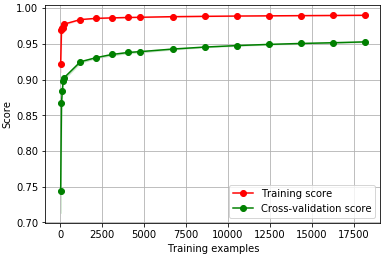
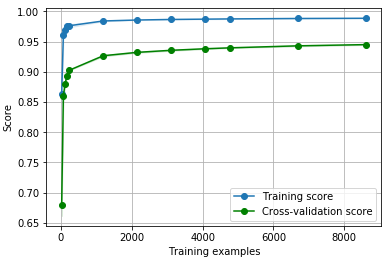
Added saturation feature, removed incorrect predictors, added divergence support

Changed region(s): [[0.0, 0.0, 0.9922, 1.0]]

diff --git a/learning_curves.py b/learning_curves.py
@@ -15,59 +15,56 @@ import matplotlib.pyplot as plt
 
 class Predictor():
 
-    def __init__(self, name, func, guess):
+    def __init__(self, name, func, guess, diverging = False):
         """ Create a Predictor with a given {name}, {function} and initial parameters: {guess}."""
-        self.name = name        
+        self.name = name
         self.func = func
         self.guess = guess
         self.params = self.guess
         self.score = None
-        self.cov = {}        
+        self.cov = {}
+        self.diverging = diverging
 
     def __call__(self, x, *args):
-        return self.func(x,*args) if len(args) > 1 else self.func(x, *self.params)
+        return self.func(x, *args) if len(args) > 1 else self.func(x, *self.params)
 
     def __repr__(self):
-        return f"{self.name} - params:{self.params} - score:{self.score}"
+        return f"{self.name} (params:{self.params},score:{self.score})"
 
 
 class LearningCurve():
 
     def __init__(self, predictors=[], scoring=r2_score):
-        
+
         self.predictors = [
-            Predictor("pow",        lambda x,a,b,c    : a - b*x**c,                  [1, 1.7,-.5]),
-            Predictor("pow_2",      lambda x,a,b,c,d  : a - (b*x+d)**c,              [1, 1.7,-.5, 1e-3]),
-            Predictor("pow_log",    lambda x,a,b,c,m,n: a - b*x**c + m*np.log(x**n), [1.3, 1.7,-.5,1e-3,2]),
-            Predictor("pow_log_2",  lambda x,a,b,c    : a / (1 + (x/np.exp(b))**c),  [1, 1.7,-.5]),
-            Predictor("log_lin",    lambda x,a,b      : np.log(a*np.log(x)+b),       [1, 1.7]),
-            Predictor("log",        lambda x,a,b      : a - b/np.log(x),             [1.6, 1.1])
+            Predictor("pow",        lambda x, a, b, c, d    : a - (b*x+d)**c,                [1, 1.7, -.5, 1e-3]),
+            Predictor("pow_log",    lambda x, a, b, c, m, n : a - b*x**c + m*np.log(x**n),   [1, 1.7, -.5, 1e-3, 1e-3], True),
+            Predictor("pow_log_2",  lambda x, a, b, c       : a / (1 + (x/np.exp(b))**c),    [1, 1.7, -.5]),
+            Predictor("inv_log",    lambda x, a, b          : a - b/np.log(x),               [1, 1.6])
         ]
-        
+
         if len(predictors) > 0:
             self.predictors.append(predictors)
 
         self.recorder = {}
         self.scoring = scoring
 
-
     def save(self, path="./lc_data.pkl"):
         """ Save the LearningCurve object as a pickle object in disk. Use dill to save because the object contains lambda functions. """
-        with open(path, 'wb') as f: dill.dump(self, f)
-
+        with open(path, 'wb') as f:
+            dill.dump(self, f)
 
     @staticmethod
     def load(path="./lc_data.pkl"):
         """ Load a LearningCurve object from disk. """
-        with open(path, 'rb') as f: return dill.load(f)
-
+        with open(path, 'rb') as f:
+            return dill.load(f)
 
     def get_lc(self, estimator, X, Y, train_sizes=None, test_size=0.2, n_splits=3, verbose=1, n_jobs=-1, **kwargs):
         """ Compute and plot the learning curve."""
 
         self.train(estimator, X, Y, train_sizes=train_sizes, test_size=test_size, n_splits=n_splits, verbose=verbose, n_jobs=n_jobs, **kwargs)
         return self.plot(predictor="best")
-
 
     def train(self, estimator, X, Y, train_sizes=None, test_size=0.2, n_splits=3, verbose=1, n_jobs=-1):
         """ Compute the learning curve of an estimator over a dataset. Returns an object that can then be passed to plot_lc function.
@@ -77,96 +74,157 @@ class LearningCurve():
                 - n_splits: int. Number of random cross validation calculated for each train size
                 - verbose: int. The higher, the more verbose.
                 - n_jobs: See sklearn learning_curve function documentation.
-        """         
+        """
 
         if train_sizes is None:
-            # [0.001, 0.003, 0.005, 0.007, 0.01, 0.05, 0.09, 0.13, 0.17, 0.2, 0.28, 0.36, 0.44, 0.52, 0.6, 0.68, 0.76]
-            train_sizes = [i/1000 for i in range(1,9,2)] + [i/100 for i in range(1,20,4)] + [i/50 for i in range(10,40,4)]
+            # [0.001, 0.003, 0.005, 0.007, 0.01, 0.05, 0.09, 0.13, 0.17, 0.2, 0.28, 0.36, 0.44, 0.52, 0.6, 0.68, 0.76, 0.84, 0.92]
+            train_sizes = [i/1000 for i in range(1, 9, 2)] + [i/100 for i in range(1, 20, 4)] + [i/50 for i in range(10, 47, 4)]
 
         cv = ShuffleSplit(n_splits=n_splits, test_size=test_size)
-        t_start = time.perf_counter()        
-        train_sizes, train_scores, test_scores = learning_curve(estimator, X, Y, 
-                                                                cv=cv, n_jobs=n_jobs, train_sizes=train_sizes, verbose=verbose)  
+        t_start = time.perf_counter()
+        train_sizes, train_scores, test_scores = learning_curve(estimator, X, Y,
+                                                                cv=cv, n_jobs=n_jobs, train_sizes=train_sizes, verbose=verbose)
         self.recorder["data"] = {
-            "total_size"          : len(X),
-            "train_sizes"         : train_sizes,
-            "train_scores_mean"   : np.mean(train_scores, axis=1),
-            "train_scores_std"    : np.std(train_scores, axis=1),
-            "test_scores_mean"    : np.mean(test_scores, axis=1),
-            "test_scores_std"     : np.std(test_scores, axis=1),
-            "time"                : time.perf_counter() - t_start
-        }  
+            "total_size": len(X),
+            "train_sizes": train_sizes,
+            "train_scores_mean": np.mean(train_scores, axis=1),
+            "train_scores_std": np.std(train_scores, axis=1),
+            "test_scores_mean": np.mean(test_scores, axis=1),
+            "test_scores_std": np.std(test_scores, axis=1),
+            "time": time.perf_counter() - t_start
+        }
 
-        gc.collect()         
+        gc.collect()
 
         return self.recorder["data"]
 
+    def get_predictor(self, pred):
+        """ Get the first predictor with matching {pred}. Returns None if no predictor matches. 
+            pred can be: a string (Predictor name, "best" or "all"), a Predictor, a list of string (Predictor names), a list of Predictors"""
 
-    def get_predictor(self, name):
-        """ Get the first predictor with matching {name}. Returns None if no predictor matches. """        
-        return next((P for P in self.predictors if P.name == name), None)
+        if isinstance(pred, str):
+            if pred == "best":
+                return self.best_predictor()
+            elif pred == "all":
+                return self.predictors 
+            else:
+                matches = [P for P in self.predictors if P.name == pred]
+                if len(matches) > 0: return matches[0]
 
+        elif isinstance(pred, Predictor): return pred
+
+        elif isinstance(pred, list):
+            if "best" in pred or "all" in pred: raise ValueError("A list of predictors can not contain 'best' or 'all'.")
+            return [self.get_predictor(P) for P in pred]
+            
+        raise ValueError(f"Predictor {pred} could not be found.")
 
     def fit_all(self, x, y):
-        """ Fit a curve with all the functions and retrieve r2 score if y_pred is finite.
+        """ Fit a curve with all the predictors and retrieve r2 score if y_pred is finite.
+            Returns an array of predictors with the updated params and score."""
+        return self.fit_all_cust(x, y, self.predictors)
+
+    def fit_all_cust(self, x, y, predictors):
+        """ Fit a curve with all the predictors and retrieve r2 score if y_pred is finite.
             Returns an array of predictors with the updated params and score."""
 
-        predictors = []
-        for p in self.predictors:
+        results = []
+        for p in predictors:
             try:
-                predictors.append(self.fit(p,x,y))
+                results.append(self.fit(p, x, y))
             except RuntimeError:
                 warnings.warn(f"{p.name}: Impossible to fit the learning curve (change initial gess).")
-        return predictors # [self.fit(p,x,y) for p in self.predictors] # No error handling
-
+        return results  # [self.fit(p,x,y) for p in self.predictors] # No error handling
 
     def fit(self, predictor, x, y):
         """ Fit a curve with a predictor and retrieve score (default:R2) if y_pred is finite.
             Returns the predictor with the updated params and score."""
 
-        assert isinstance(predictor, Predictor), "The given Predictor is not a Predictor object (or could not be found)."
+        assert isinstance(predictor, Predictor), "The given Predictor is not a Predictor object."
 
         predictor.params, predictor.cov = optimize.curve_fit(predictor, x, y, predictor.params)
-        #try:
+        # try:
         y_pred = predictor(x)
-        predictor.score = self.scoring(y,y_pred) if np.isfinite(y_pred).all() else np.nan    
-        #except ValueError:
+        predictor.score = self.scoring(y, y_pred) if np.isfinite(y_pred).all() else np.nan
+        # except ValueError:
         #    print(x, P(x))
         return predictor
 
+    def threshold(self, P="best", **kwargs):
+        """ See threshold_cust documentation. This function calls threshold_cust with the LearningCurve data points."""
+        if not 'data' in self.recorder: raise RuntimeError("recorder is empty. You must first compute learning curve data points using the train method.")
+        if isinstance(P, str) : P = self.get_predictor(P)
+        return self.threshold_cust(P, self.recorder["data"]["train_sizes"], **kwargs)
 
-    def best_predictor(self):
+    def threshold_cust(self, P, x, threshold=0.99, max_scaling=3, force=False, **kwargs):
+        """ Find the training set size providing the highest accuracy up to a predefined threshold.
+            P(x) = y and for x -> inf, y -> saturation value.
+            This method approximates x_thresh such as P(x_thresh) = threshold * saturation value
+            Returns (saturation value, x_thresh, y_thresh)
+            max_scaling is use if the Predictor is diverging. It defines the order of magnitude for determining the saturation value.
+            max_scaling is added to the order of magnitude of the maximum value of x.
+        """               
+        if max_scaling > 5 and not force:
+            raise ValueError("max_scaling > 5: this will consume a lot of memory. Use Force=True to continue.")
+
+        x_max_scale = LearningCurve.get_scale(x[-1])
+        max_val = 10 ** (x_max_scale + max_scaling)
+        step = 5 * (max_scaling - 2)
+        # using result results in bad approximation of opt_trn_size because the step if proportional to max_scaling
+        # np.linspace(x[0], max_val, 1e3, dtype=np.uintc) 
+        # using np.arange we can specify a step and be more precise, but we need to adjust the step with max_scaling
+        # otherwise we run out of memory
+        x = np.arange(x[0], max_val, step, dtype=np.uintc) 
+        y = P(x)
+
+        if P.diverging:
+            warnings.warn("""Using a diverging Predictor. Because no saturation value exists for such Predictor, max_scaling will be use to determine the saturation value. You should adapt max_scaling to fit the maximum number of data you can fit.""")
+            sat_val = y[-1]
+        else:
+            sat_val = P.params[0]
+
+        desired_acc = sat_val * threshold
+        i = np.argmax(y >= desired_acc)
+        opt_trn_size, opt_acc = x[i], y[i]
+
+        return sat_val, int(opt_trn_size), opt_acc
+
+    @staticmethod
+    def get_scale(val):
+        """ Returns the scale of a value. Eg: get_scale(1e-15) = -15 """
+        return np.floor(np.log10(np.abs(val)))
+
+    def best_predictor(self, predictors=None, fit=True):
         """ Find the best predictor of the LearningCurve data for the test score learning curve."""
 
         if not 'data' in self.recorder:
             raise RuntimeError("recorder is empty. You must first compute learning curve data points using the train method.")
-        return self.best_predictor_cust(self.recorder["data"]["train_sizes"], self.recorder["data"]["test_scores_mean"])
+        predictors = predictors if predictors is not None else self.predictors
+        return self.best_predictor_cust(predictors, self.recorder["data"]["train_sizes"], self.recorder["data"]["test_scores_mean"], fit=fit)
 
-
-    def best_predictor_cust(self, x, y):
+    def best_predictor_cust(self, predictors, x, y, fit=True):
         """ Find the best predictor for the test score learning curve."""
 
-        best_p = self.predictors[0]
-        for P in self.fit_all(x,y):
-            if P.score is not None and P.score > best_p.score: 
+        best_p = predictors[0]
+        if fit is True : predictors = self.fit_all_cust(x, y, predictors)
+        for P in predictors:
+            if P.score is not None and P.score > best_p.score:
                 best_p = P
         return best_p
 
-
     def plot(self, predictor=None, **kwargs):
         """ Plot the training and test learning curve of the LearningCurve data, and optionally a fitted function. 
-            - predictor: The name of the predictor to use for fitting the learning curve. Can also be "all" or "best".
+            - predictor: The name of the predictor or predictor to use for fitting the learning curve. Can also be "all" or "best".
         """
         if not 'data' in self.recorder:
             raise RuntimeError("recorder is empty. You must first compute learning curve data points using the train method.")
         return self.plot_cust(predictor=predictor, **self.recorder["data"], **kwargs)
 
-
-    def plot_cust(self, train_sizes, train_scores_mean, train_scores_std, test_scores_mean, test_scores_std, 
-                        predictor=None, ylim=None, figsize=None, title=None, scores=True, **kwargs):
+    def plot_cust(self, train_sizes, train_scores_mean, train_scores_std, test_scores_mean, test_scores_std,
+                  predictor=None, ylim=None, figsize=None, title=None, scores=True, saturation=None, **kwargs):
         """ Plot any training and test learning curve, and optionally a fitted function. """
-    
-        fig, ax = plt.subplots(1,1,figsize=figsize)
+
+        fig, ax = plt.subplots(1, 1, figsize=figsize)
         if 'title' is not None:
             ax.set_title(title)
         if ylim is not None:
@@ -174,34 +232,39 @@ class LearningCurve():
         ax.set_xlabel("Training examples")
         ax.set_ylabel("Score")
         ax.grid()
-        ax.fill_between(train_sizes, train_scores_mean - train_scores_std,
-                        train_scores_mean + train_scores_std, alpha=0.1,
-                        color="r")
-        ax.fill_between(train_sizes, test_scores_mean - test_scores_std,
-                        test_scores_mean + test_scores_std, alpha=0.15, color="g")
-        ax.plot(train_sizes, train_scores_mean, 'o-', color="r", label="Training score")
+        ax.fill_between(train_sizes, train_scores_mean - train_scores_std, train_scores_mean + train_scores_std, alpha=0.1, color='#1f77b4')
+        ax.fill_between(train_sizes, test_scores_mean - test_scores_std, test_scores_mean + test_scores_std, alpha=0.15, color="g")
+        ax.plot(train_sizes, train_scores_mean, 'o-', color='#1f77b4', label="Training score")
         ax.plot(train_sizes, test_scores_mean, 'o-', color="g", label="Cross-validation score")
 
-        predictors_to_print = []
+        x_values = train_sizes
 
-        if predictor == "all":            
-            predictors_to_print = self.fit_all(train_sizes, test_scores_mean)
-        elif predictor == "best":    
-            self.fit_all(train_sizes, test_scores_mean)
-            predictors_to_print.append(self.best_predictor_cust(train_sizes, test_scores_mean))  
-        elif predictor is not None:
-            P = self.get_predictor(predictor)
-            if P is not None:
-                self.fit(P, train_sizes, test_scores_mean)
-                predictors_to_print.append(P) 
+        predictors = []
+        if predictor is not None: 
+            to_add = self.get_predictor(predictor)
+            predictors += to_add if isinstance(to_add, list) else [to_add]
 
-        for predictor in predictors_to_print:
-            ax = self.plot_fitted_curve(ax, predictor, train_sizes, scores)          
-                
+        if saturation is not None:
+            saturation = self.get_predictor(saturation)
+            predictors += saturation if isinstance(saturation, list) else [saturation]
+
+        predictors = self.get_unique_list(predictors) # Remove duplicates
+        self.fit_all_cust(train_sizes, test_scores_mean, predictors)
+
+        # Plot saturation
+        if isinstance(saturation, Predictor):
+            ax, optx = self.plot_saturation(ax, saturation, **kwargs)
+            if(train_sizes[-1] < optx):
+                x_scale = LearningCurve.get_scale(train_sizes[-1])
+                extra_vals = np.linspace(x_scale+1, optx+100, 10)
+                x_values = np.concatenate((x_values, extra_vals), axis=None)
+
+        for P in predictors:
+            if P is not None: ax = self.plot_fitted_curve(ax, P, x_values, scores)
+
         ax.legend(loc="best")
         plt.close(fig)
         return fig
-
 
     def plot_fitted_curve(self, ax, P, x, score=True):
         """ Add to figure ax a fitted curve. """
@@ -209,3 +272,19 @@ class LearningCurve():
         label = P.name + f" ({round(P.score,4)})" if score is True and P.score is not None else ""
         ax.plot(trialX, P(trialX), ls='--', label=label)
         return ax
+
+    def plot_saturation(self, ax, P, alpha=1, lw=1.3, **kwargs):
+        """ Add saturation lines to a plot. """
+        sat, optx, opty = self.threshold(P, **kwargs)
+        ax.axhline(y=sat, c='r', alpha=alpha, lw=lw)
+        ax.axvline(x=optx, ls='-', alpha=alpha, lw=lw)
+        ax.axhline(y=opty, ls='-', alpha=alpha, lw=lw)
+        return ax, optx
+
+    def get_unique_list(self, predictors):
+        """ Return a list of unique predictors. """
+        results = []
+        for P in predictors:
+            if not P.name in [p.name for p in results] : results.append(P)
+        return results
+        
